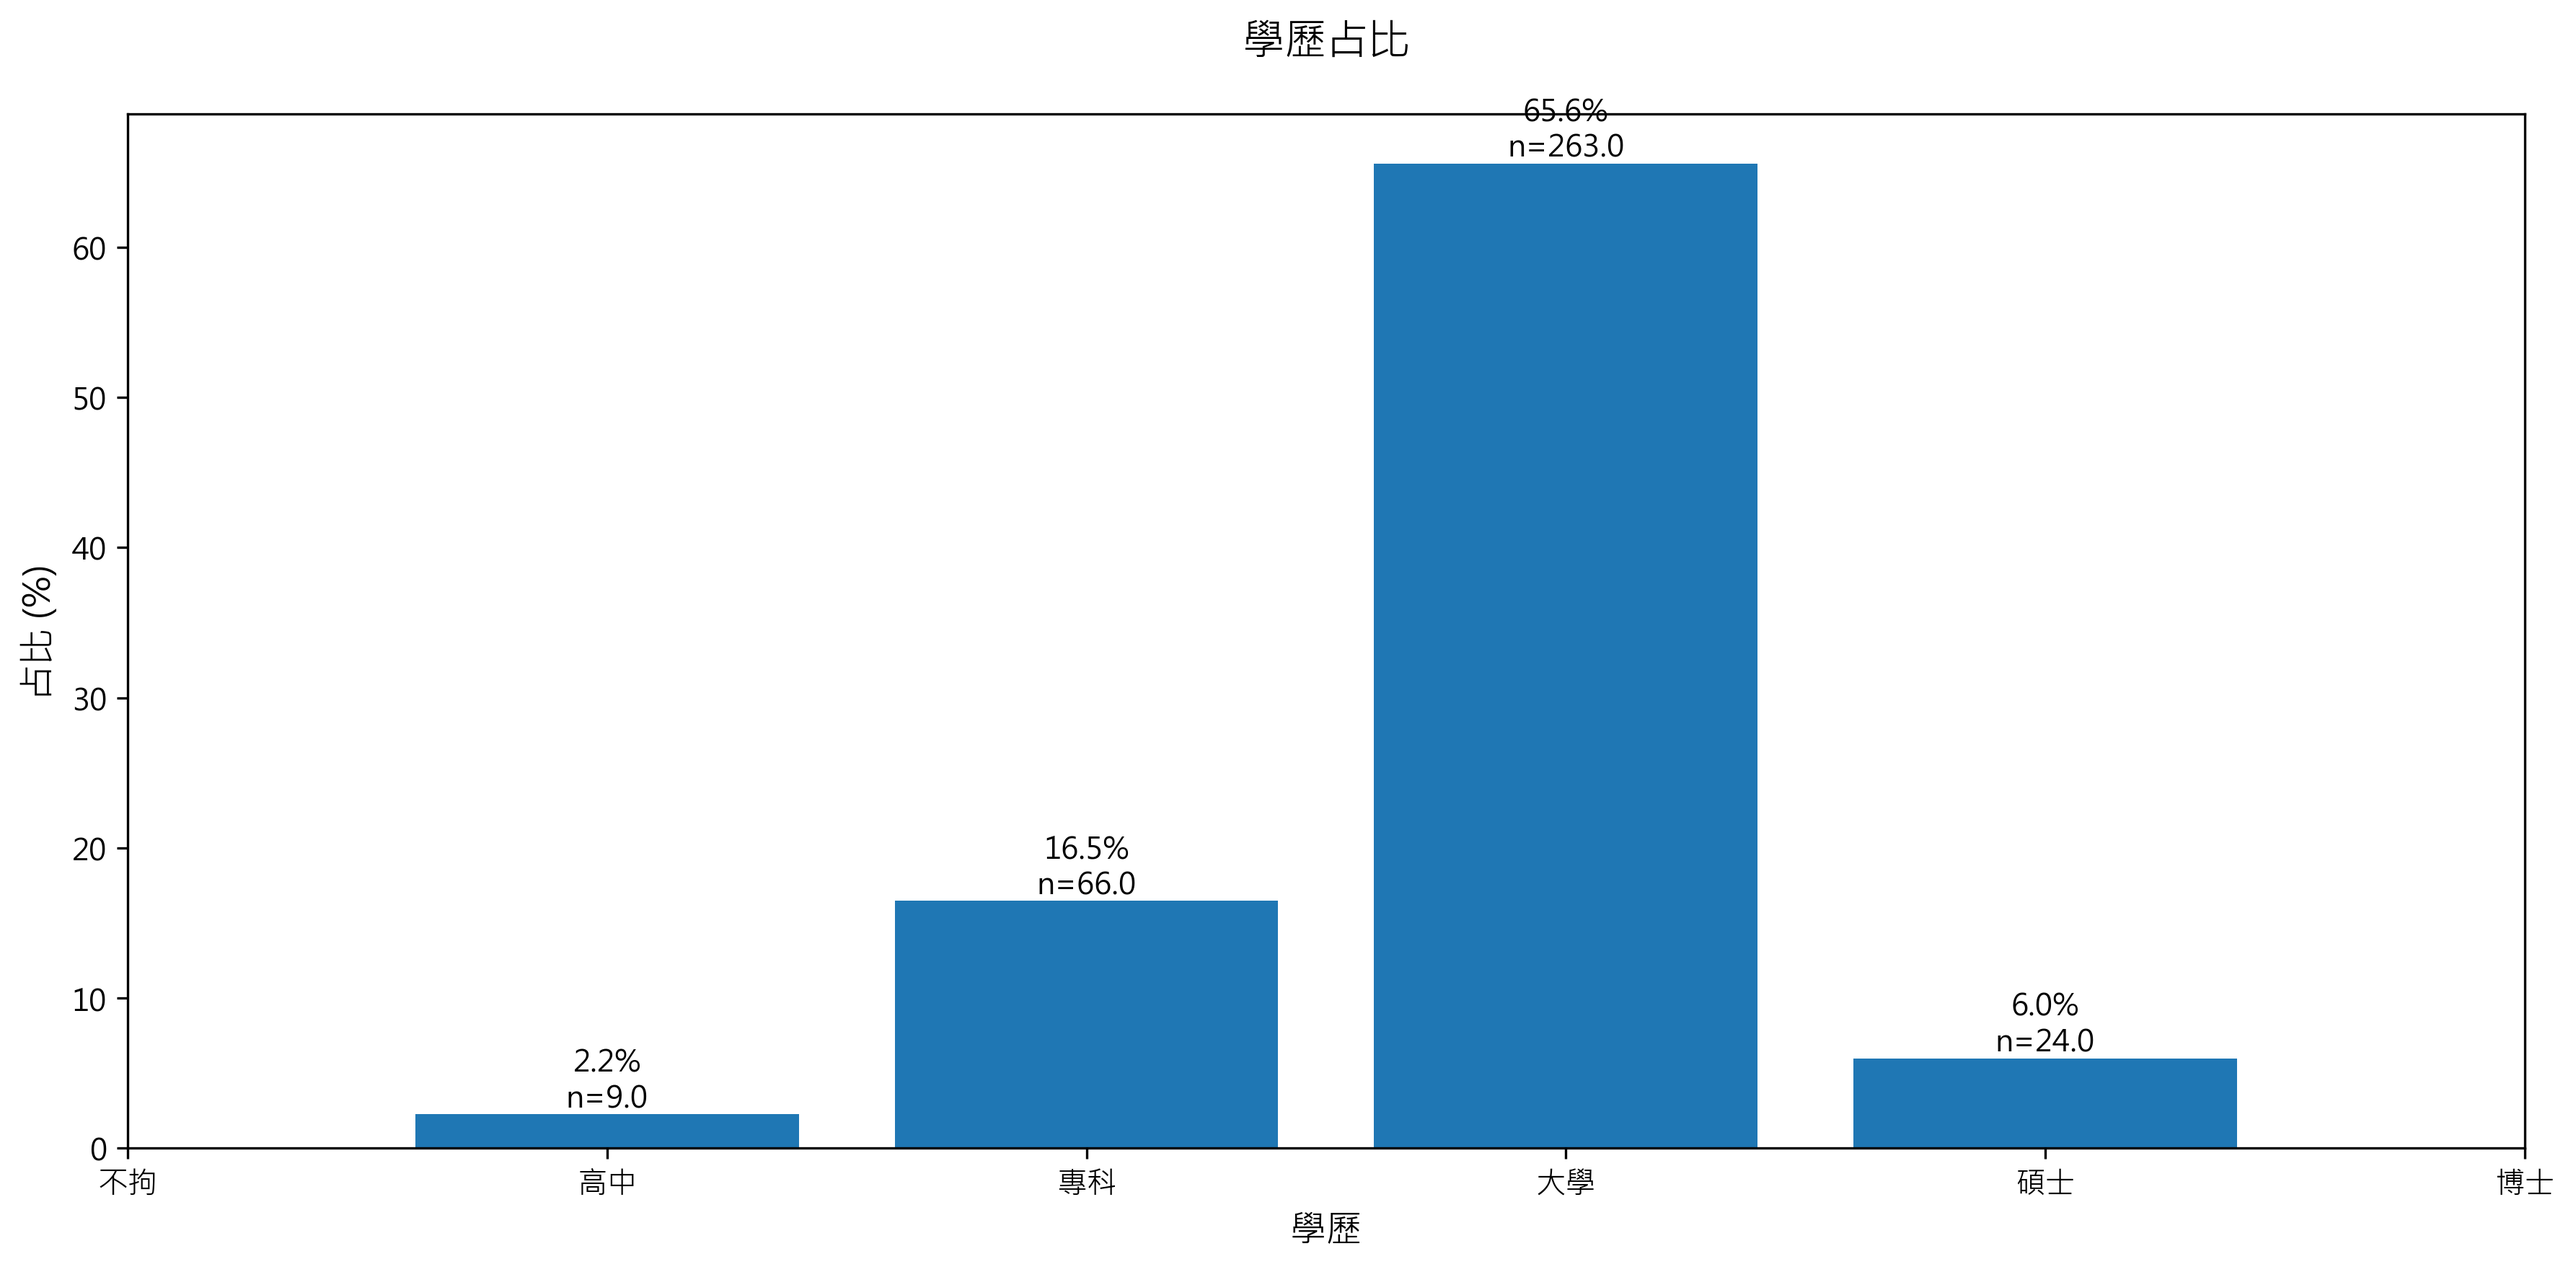
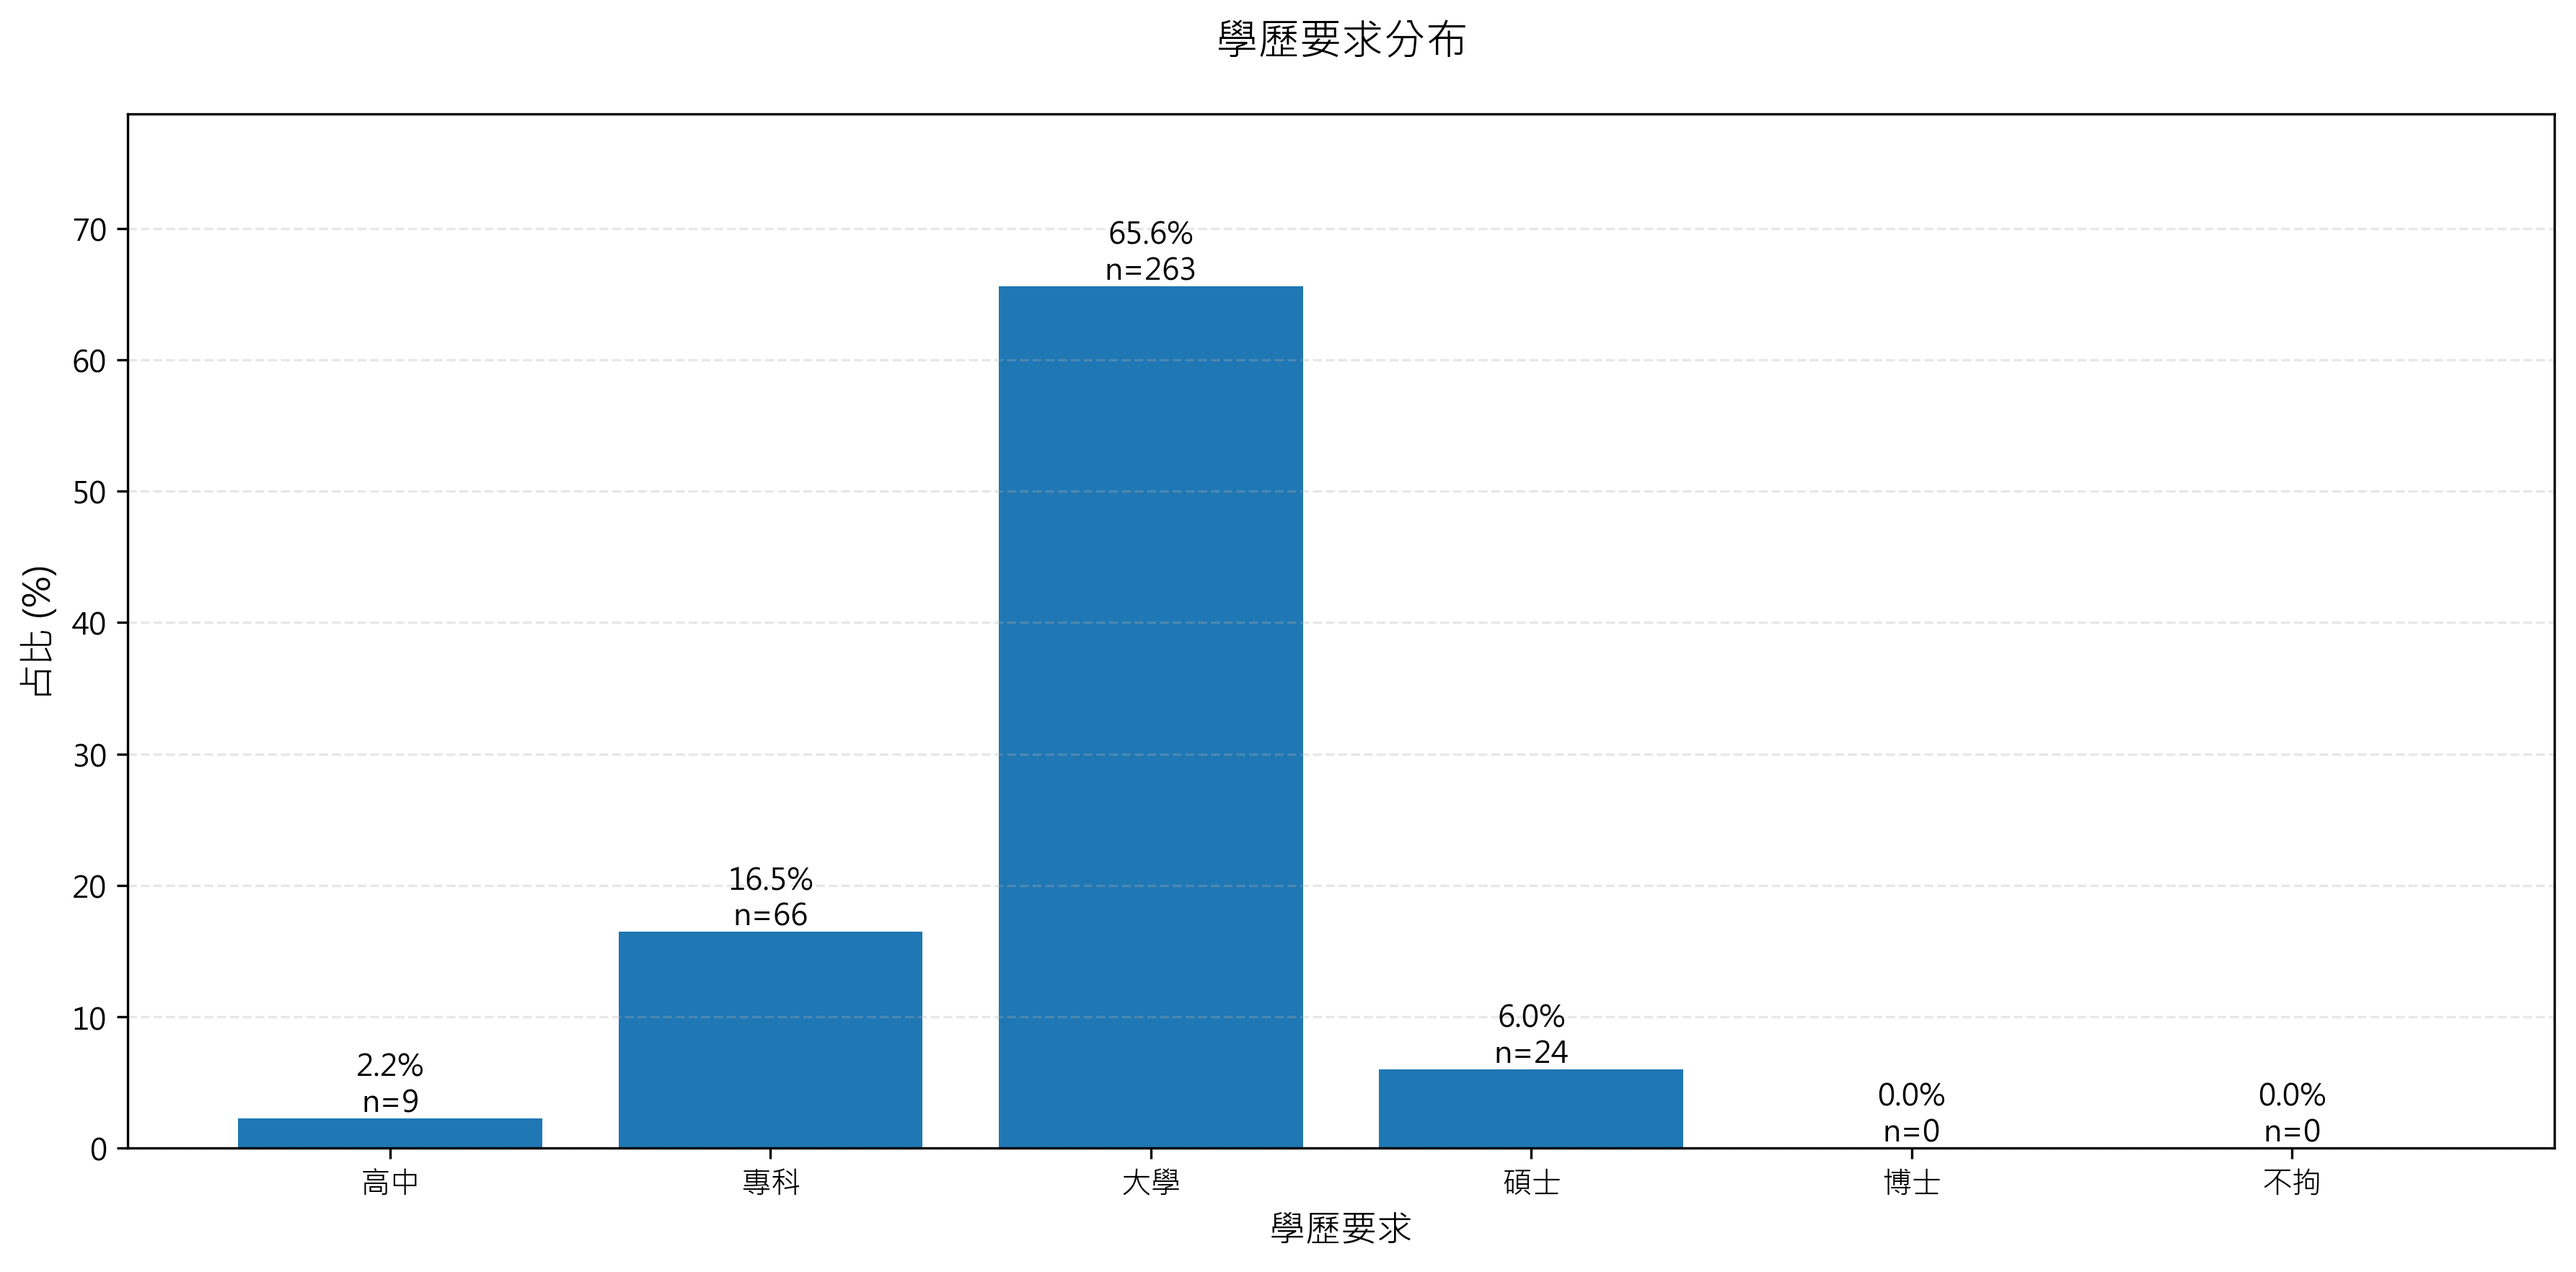
改正學歷圖錯誤

diff --git a/104_an.py b/104_an.py
@@ -446,11 +446,16 @@ def analyze_education_ratio(df):
         plt.rcParams['font.sans-serif'] = ['Microsoft JhengHei']
         plt.rcParams['axes.unicode_minus'] = False
 
-        # 學歷排序順序
-        edu_order = ['不拘', '高中', '專科', '大學', '碩士', '博士']
+        # 學歷排序順序（從低到高）
+        edu_order = ['高中', '專科', '大學', '碩士', '博士', '不拘']
         
         # 計算各學歷的數量
         edu_counts = df['學歷要求'].value_counts()
+        
+        # 確保所有學歷類別都存在
+        for edu in edu_order:
+            if edu not in edu_counts:
+                edu_counts[edu] = 0
         
         # 計算總數
         total = edu_counts.sum()
@@ -465,20 +470,28 @@ def analyze_education_ratio(df):
         plt.figure(figsize=(12, 6))
         
         # 繪製柱狀圖
-        bars = plt.bar(range(len(edu_ratio)), edu_ratio)
+        x = range(len(edu_order))
+        bars = plt.bar(x, edu_ratio)
         
         # 在柱子上標示百分比和樣本數
         for i, (ratio, count) in enumerate(zip(edu_ratio, edu_counts.reindex(edu_order))):
-            plt.text(i, ratio, f'{ratio:.1f}%\nn={count}', 
-                    ha='center', va='bottom')
+            if not pd.isna(ratio):  # 確保數值不是 NaN
+                plt.text(i, ratio, f'{ratio:.1f}%\nn={int(count)}', 
+                        ha='center', va='bottom')
         
         # 設置標題和標籤
-        plt.title('學歷占比', pad=20, fontsize=14)
-        plt.xlabel('學歷', fontsize=12)
+        plt.title('學歷要求分布', pad=20, fontsize=14)
+        plt.xlabel('學歷要求', fontsize=12)
         plt.ylabel('占比 (%)', fontsize=12)
         
         # 設置X軸刻度
-        plt.xticks(range(len(edu_ratio)), edu_order)
+        plt.xticks(x, edu_order, rotation=0)
+        
+        # 設置Y軸範圍，確保有足夠空間顯示標籤
+        plt.ylim(0, max(edu_ratio) * 1.2)
+        
+        # 添加網格線以便於閱讀
+        plt.grid(True, axis='y', linestyle='--', alpha=0.3)
         
         # 調整布局
         plt.tight_layout()
@@ -489,6 +502,8 @@ def analyze_education_ratio(df):
 
     except Exception as e:
         print(f"學歷占比分析錯誤：{str(e)}")
+        import traceback
+        print(traceback.format_exc())
 
 def analyze_lda_topics(df):
     """使用LDA進行主題分析"""
